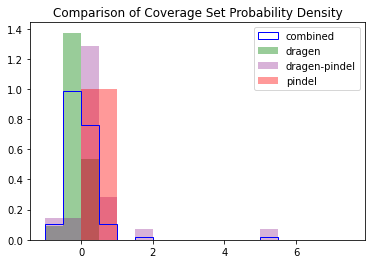
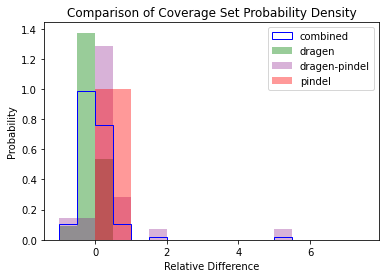
Updated output with labels, included PNG

Changed region(s): [[0.0, 0.0, 1.0, 0.9697]]

diff --git a/py/generate_plot.py b/py/generate_plot.py
@@ -142,6 +142,8 @@ plt.hist(pindel,
 
 # finalizes plot, displays it
 plt.title('Comparison of Coverage Set Probability Density')
+plt.xlabel('Relative Difference')
+plt.ylabel('Probability')
 plt.legend(loc='upper right')
 plt.show()
 
